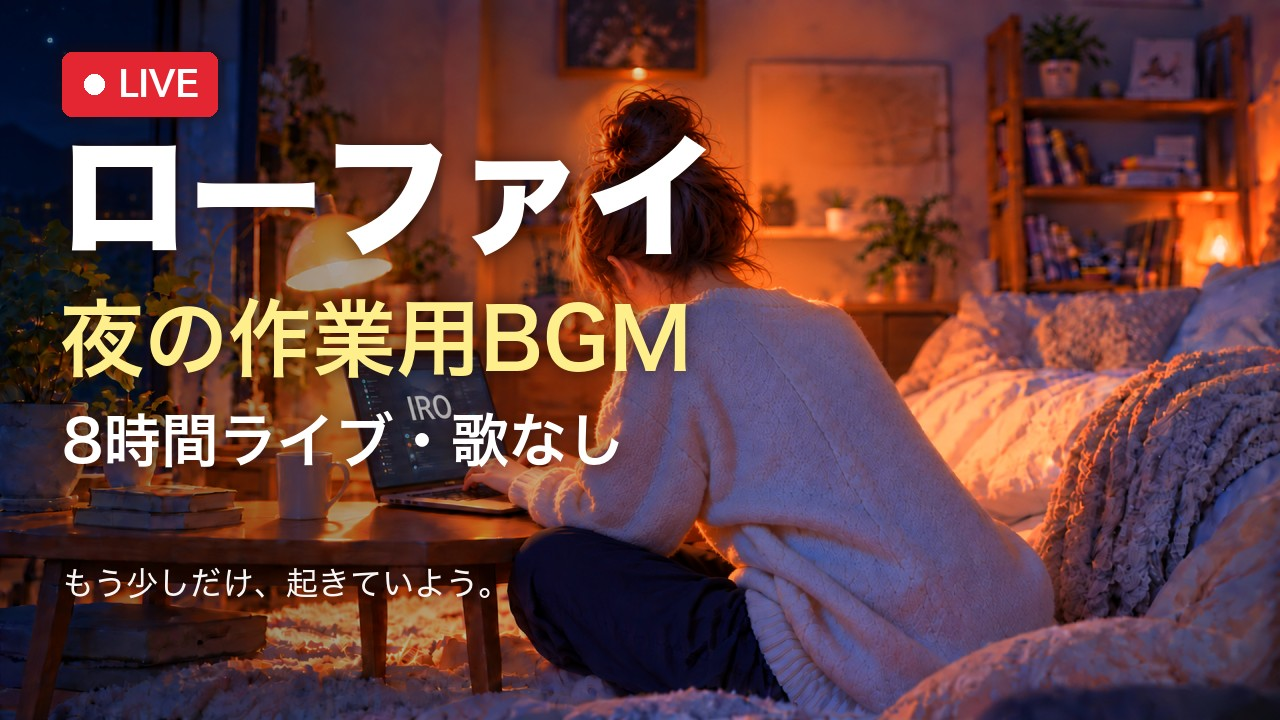
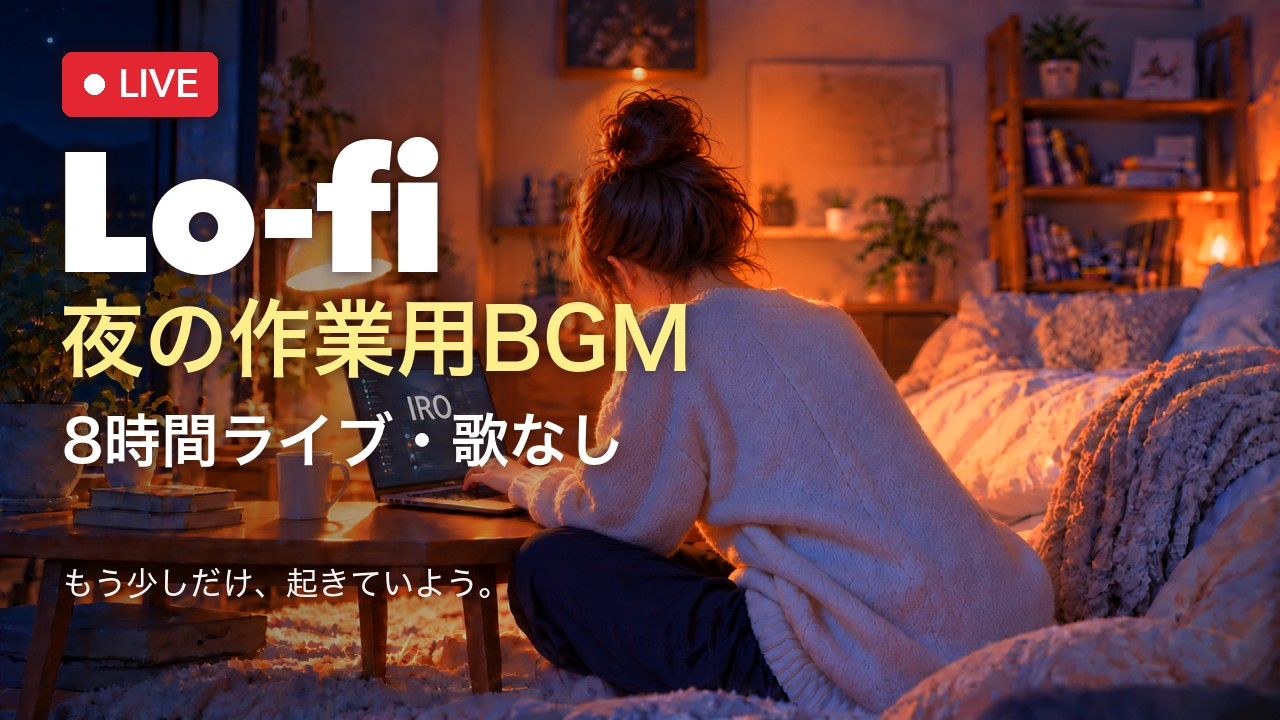
feat(iro-live02): サムネの最大の字を「ローファイ」→英字「Lo-fi」に変更し、Studioの枠も差し替え
- 本人がA/B/C比較からB（Lo-fi・Avenir Next Heavy）を選択
- 4GiE-V7omTw のサムネを差し替え、読み込み直して反映を確認

Changed region(s): [[0.0312, 0.1833, 0.5625, 0.3972]]

diff --git a/bgm/IRO/IRO_LIVE02_準備/サムネを焼く.py b/bgm/IRO/IRO_LIVE02_準備/サムネを焼く.py
@@ -1,7 +1,7 @@
 """IRO LIVE02 のサムネ：IRO11 の用途中心サムネ（10/18）と同じ並びで、ライブ用に作り直す。
 
 - 絵：IRO11 の開始画像（CORAL の色寄せ）＝画面とサムネを作る.py の still()
-- 字：「ローファイ」（白・最大）／「夜の作業用BGM」（黄）／「8時間ライブ・歌なし」（白）／作品名（小）
+- 字：「Lo-fi」（白・最大・Avenir Next Heavy。10/19本人：カタカナより英字。カタカナは題字として弱い実測とも合う）／「夜の作業用BGM」（黄）／「8時間ライブ・歌なし」（白）／作品名（小）
 - 左上に赤い「● LIVE」の札
 """
 import os, importlib.util
@@ -32,7 +32,7 @@ def main():
     im = Image.fromarray(st.clip(0, 255).astype(np.uint8)).convert("RGBA")
     lay = Image.new("RGBA", im.size, (0, 0, 0, 0)); d = ImageDraw.Draw(lay); X = 62
     live_badge(d, X, 52)
-    d.text((X - 4, 128), "ローファイ", font=ImageFont.truetype(JP_B, 132), fill=(255, 255, 255, 255))
+    d.text((X - 8, 272), "Lo-fi", font=ImageFont.truetype(m.AV, 170, index=8), fill=(255, 255, 255, 255), anchor="ls")
     d.text((X - 2, 296), "夜の作業用BGM", font=ImageFont.truetype(m.JP, 84), fill=(255, 238, 140, 255))
     d.text((X, 410), "8時間ライブ・歌なし", font=ImageFont.truetype(m.JP, 58), fill=(255, 255, 255, 255))
     d.text((X, 566), "もう少しだけ、起きていよう。", font=ImageFont.truetype(m.JP_M, 32), fill=(255, 255, 255, 245))

diff --git a/bgm/IRO/IRO_LIVE02_準備/00_計画と当日の手順.md b/bgm/IRO/IRO_LIVE02_準備/00_計画と当日の手順.md
@@ -12,7 +12,7 @@
 | 時間帯 | 土 9〜17時 | **土 20時〜深夜4時** |
 | 枠を作った日 | 前日 | **12日前（10/19）** |
 | 再生リスト | なし | **Lo-fi** |
-| サムネ | 旧型 | **用途中心の型＋● LIVE** |
+| サムネ | 旧型 | **用途中心の型＋● LIVE・最大の字は英字「Lo-fi」（10/19本人）** |
 LIVE01の実測：表示3・視聴者1・維持率は出ず（`../IRO_LIVE01_準備/02_OBS・題名・当日の手順.md` 末尾）
 
 ## 素材（ESD-02）
